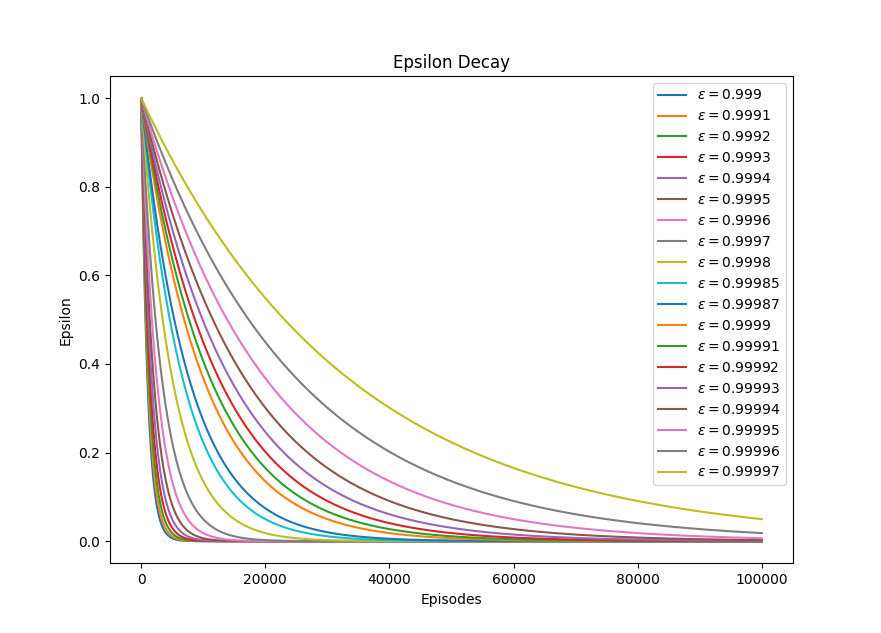
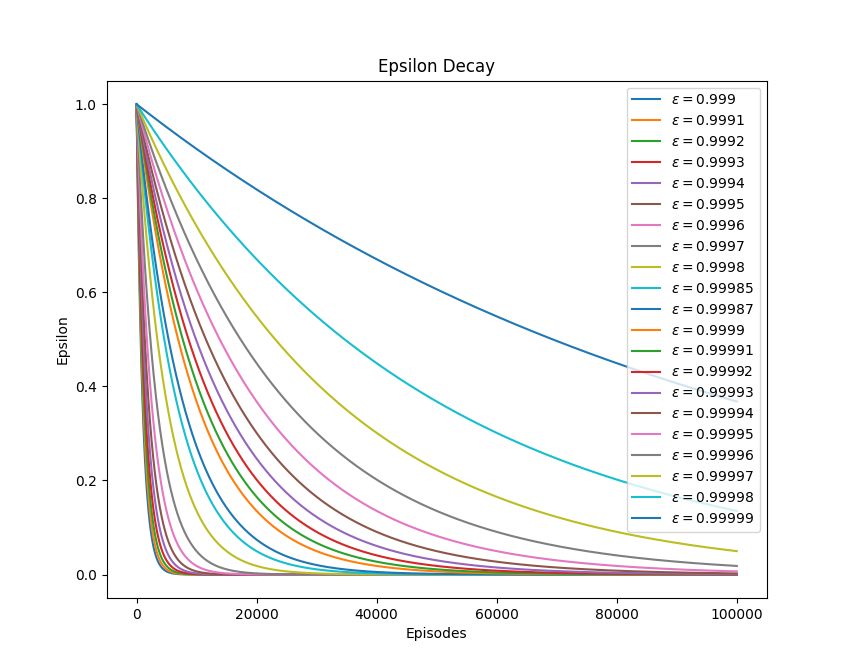
Atualiza graficos

diff --git a/test.py b/test.py
@@ -3,7 +3,7 @@ import numpy as np
 
 epsilon = 0.9999
 limit_list = []
-epsilon_decs = [0.999, 0.9991, 0.9992, 0.9993, 0.9994, 0.9995, 0.9996, 0.9997, 0.9998, 0.99985, 0.99987, 0.9999, 0.99991, 0.99992, 0.99993, 0.99994, 0.99995, 0.99996, 0.99997]
+epsilon_decs = [0.999, 0.9991, 0.9992, 0.9993, 0.9994, 0.9995, 0.9996, 0.9997, 0.9998, 0.99985, 0.99987, 0.9999, 0.99991, 0.99992, 0.99993, 0.99994, 0.99995, 0.99996, 0.99997, 0.99998, 0.99999]
 epsilon_list_list = []
 
 

diff --git a/plot.py b/plot.py
@@ -18,5 +18,5 @@ plt.xlabel('Episodes')
 plt.ylabel(r'$\sum$ '  + 'Rewards')
 plt.grid()
 plt.title('Frozen Lake Rewards')
-# plt.legend()
+plt.legend()
 plt.show()
